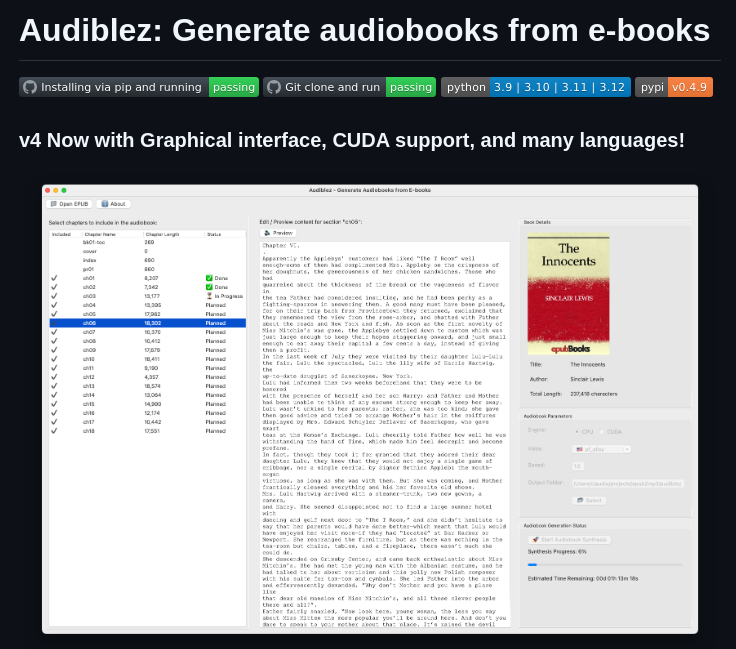
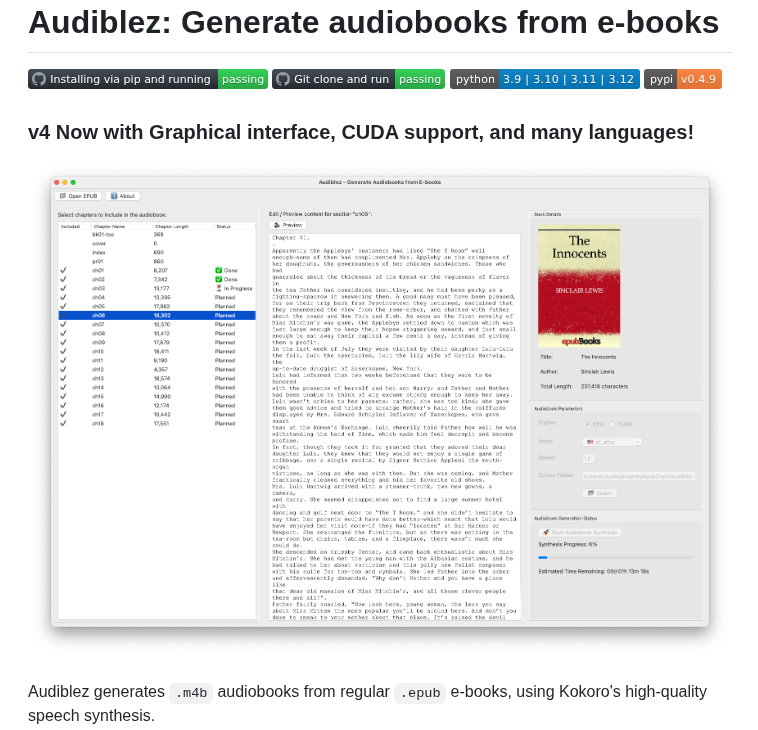
Add post: 2025-07-20-santinic-audiblez.md

diff --git a/docs/_posts/2025-07-20-santinic-audiblez.md b/docs/_posts/2025-07-20-santinic-audiblez.md
@@ -1,0 +1,9 @@
+---
+layout: default
+date: 2025-07-20T11:19:38.030411
+image: assets/santinic_audiblez_cropped.png
+---
+
+# [santinic/audiblez](https://github.com/santinic/audiblez)
+
+convert epub ebooks into m4b audiobooks using text-to-speech
